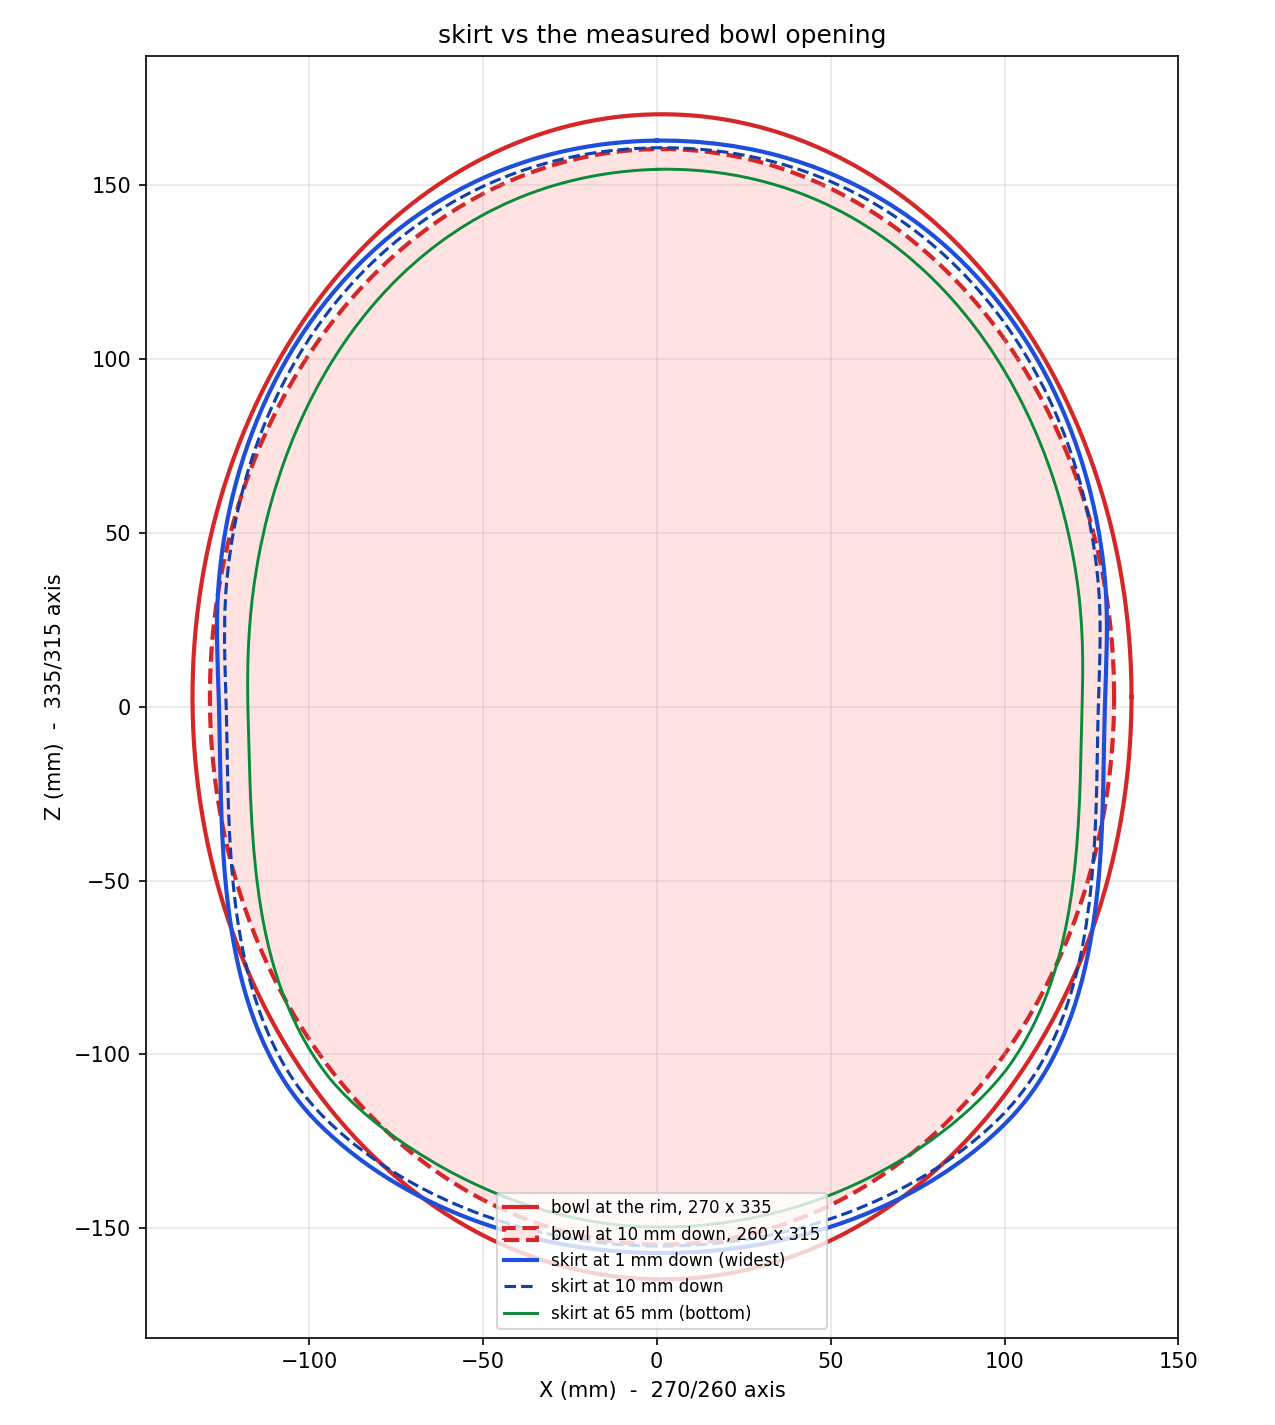
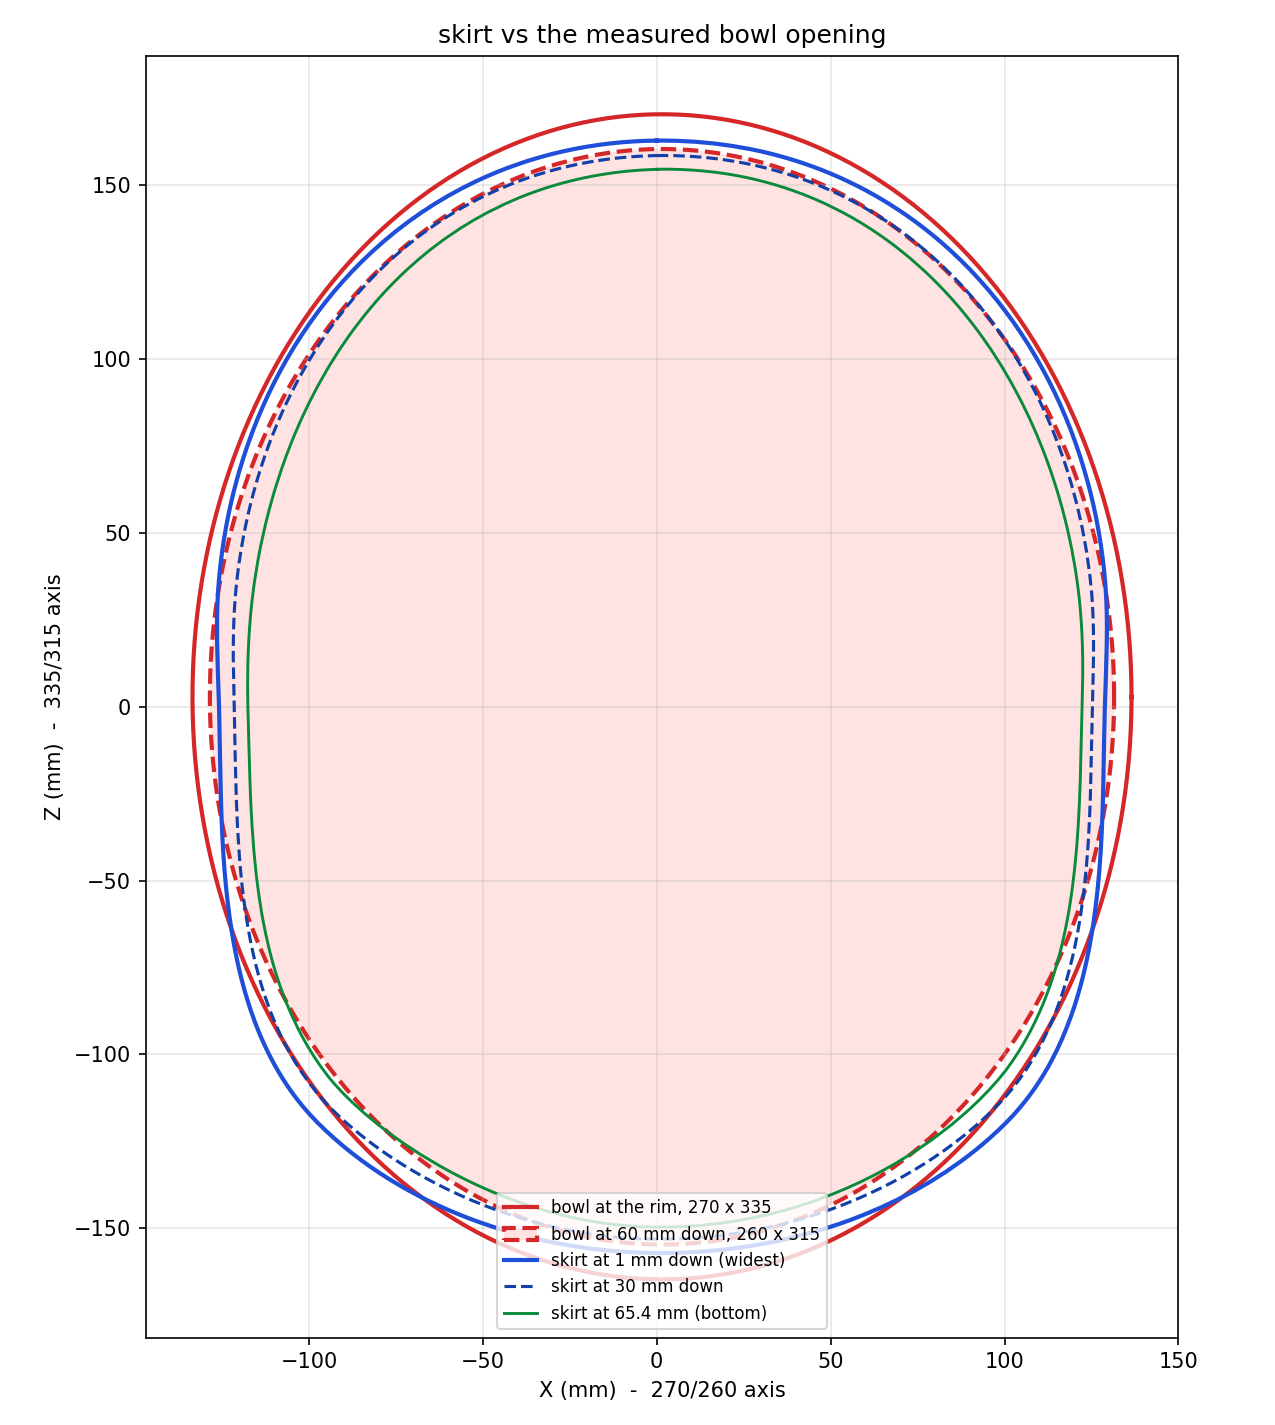
Correct the bowl taper: 10 mm over 60 mm of depth
I had read "tapers down 1cm" as the taper completing within 10 mm of the rim.
It is 335 x 270 at the rim narrowing to 315 x 260 over the bowl's first 60 mm,
so the opening is wider than assumed at every depth but the last.

That removes the only interference. The skirt now clears by 4.5-9.5 mm a side
everywhere, tightest at the bottom of the skirt on the long axis, instead of
being 0.4 mm proud at 10 mm down. Against a true ellipse of the stated axes it
is proud by 0.2-2.6 mm rather than 8.6 mm, small enough to sit inside both the
tracing tolerance and the gap between an ellipse and a real bowl.

No geometry change - the 65.4 mm skirt and the split are unaffected. README
table and skirt_vs_bowl.png redone against the corrected profile.

diff --git a/README.md b/README.md
@@ -198,8 +198,8 @@ outer ridges touch: 46-293 mm2. Whichever you pick, it needs support or a brim.
 ## Fitting the measured bowl
 
 `measurements.jpg` has the opening measured on the toilet: **335 mm** on the long
-axis and **270 mm** across at the rim, tapering to **315 x 260** about 10 mm
-down. The skirt may go no more than 70 mm into the bowl.
+axis and **270 mm** across at the rim, tapering inward to **315 x 260** over the
+first 60 mm of depth. The skirt may go no more than 70 mm into the bowl.
 
 ### Skirt shortened to 65.4 mm
 
@@ -222,27 +222,26 @@ Overall the seat is now 375 x 427 mm in plan and 81.6 mm tall, pieces
 
 ### Does it drop in?
 
-`skirt_vs_bowl.png` overlays the skirt on the measured opening. Comparing extreme
-dimensions at each depth:
+Yes, with 4.5-9.5 mm a side everywhere. `skirt_vs_bowl.png` overlays the skirt on
+the measured opening. Comparing extreme dimensions at each depth:
 
 | depth | skirt W x L | opening W x L | clearance per side |
 |---|---|---|---|
-| 1 mm | 255.9 x 319.9 | 269.0 x 333.0 | +6.6 / +6.6 |
-| 5 mm | 252.9 x 316.9 | 265.0 x 325.0 | +6.1 / +4.1 |
-| 10 mm | 251.8 x 315.8 | 260.0 x 315.0 | +4.1 / **−0.4** |
-| 20 mm | 249.5 x 313.7 | 260.0 x 315.0 | +5.2 / +0.6 |
-| 65 mm | 240.1 x 304.2 | 260.0 x 315.0 | +9.9 / +5.4 |
+| 1 mm | 255.9 x 319.9 | 269.8 x 334.7 | +7.0 / +7.4 |
+| 10 mm | 251.8 x 315.8 | 268.3 x 331.7 | +8.3 / +7.9 |
+| 20 mm | 249.5 x 313.7 | 266.7 x 328.3 | +8.6 / +7.3 |
+| 40 mm | 245.2 x 309.5 | 263.3 x 321.7 | +9.1 / +6.1 |
+| 60 mm | 241.1 x 305.3 | 260.0 x 315.0 | +9.4 / +4.9 |
+| 65.4 mm | 240.0 x 304.1 | 259.1 x 313.2 | +9.5 / +4.5 |
 
-Everywhere except one spot it clears, by 4-10 mm a side across the width. The
-exception is 0.4 mm per side on the length at 10 mm depth, and that depends
-entirely on an assumption the measurements do not pin down: that the taper to
-315 is complete by 10 mm. If it finishes at 15 mm instead, that point clears by
-about 2.9 mm a side.
+The tightest point is +4.5 mm a side, at the bottom of the skirt on the long
+axis. Nothing interferes at any depth.
 
-Two caveats on all of this. These are extreme dimensions, not shapes - two
-outlines with compatible bounding boxes need not nest. And against a true
-ellipse of the stated axes the skirt is proud by up to 8.6 mm at one end of the
-long axis, because it is squarer there than an ellipse; real bowls are fuller
-than ellipses, which is presumably why the traced shape looks the way it does,
-but a tape measure on two axes cannot confirm that. Tracing the opening on film,
-as the original was, would settle it.
+One caveat, as ever: these are extreme dimensions, not shapes, and two outlines
+with compatible bounding boxes need not nest. Tested against a true ellipse of
+the stated axes the skirt is still slightly proud - 0.2 to 2.6 mm, worst at the
+rim, at one end of the long axis, where the traced shape is squarer than an
+ellipse. Real bowls are fuller than ellipses, which is presumably why it was
+traced that way, and a couple of millimetres is inside the tolerance of a tape
+measure on porcelain. Tracing the opening on film, as the original was, would
+settle it outright.
